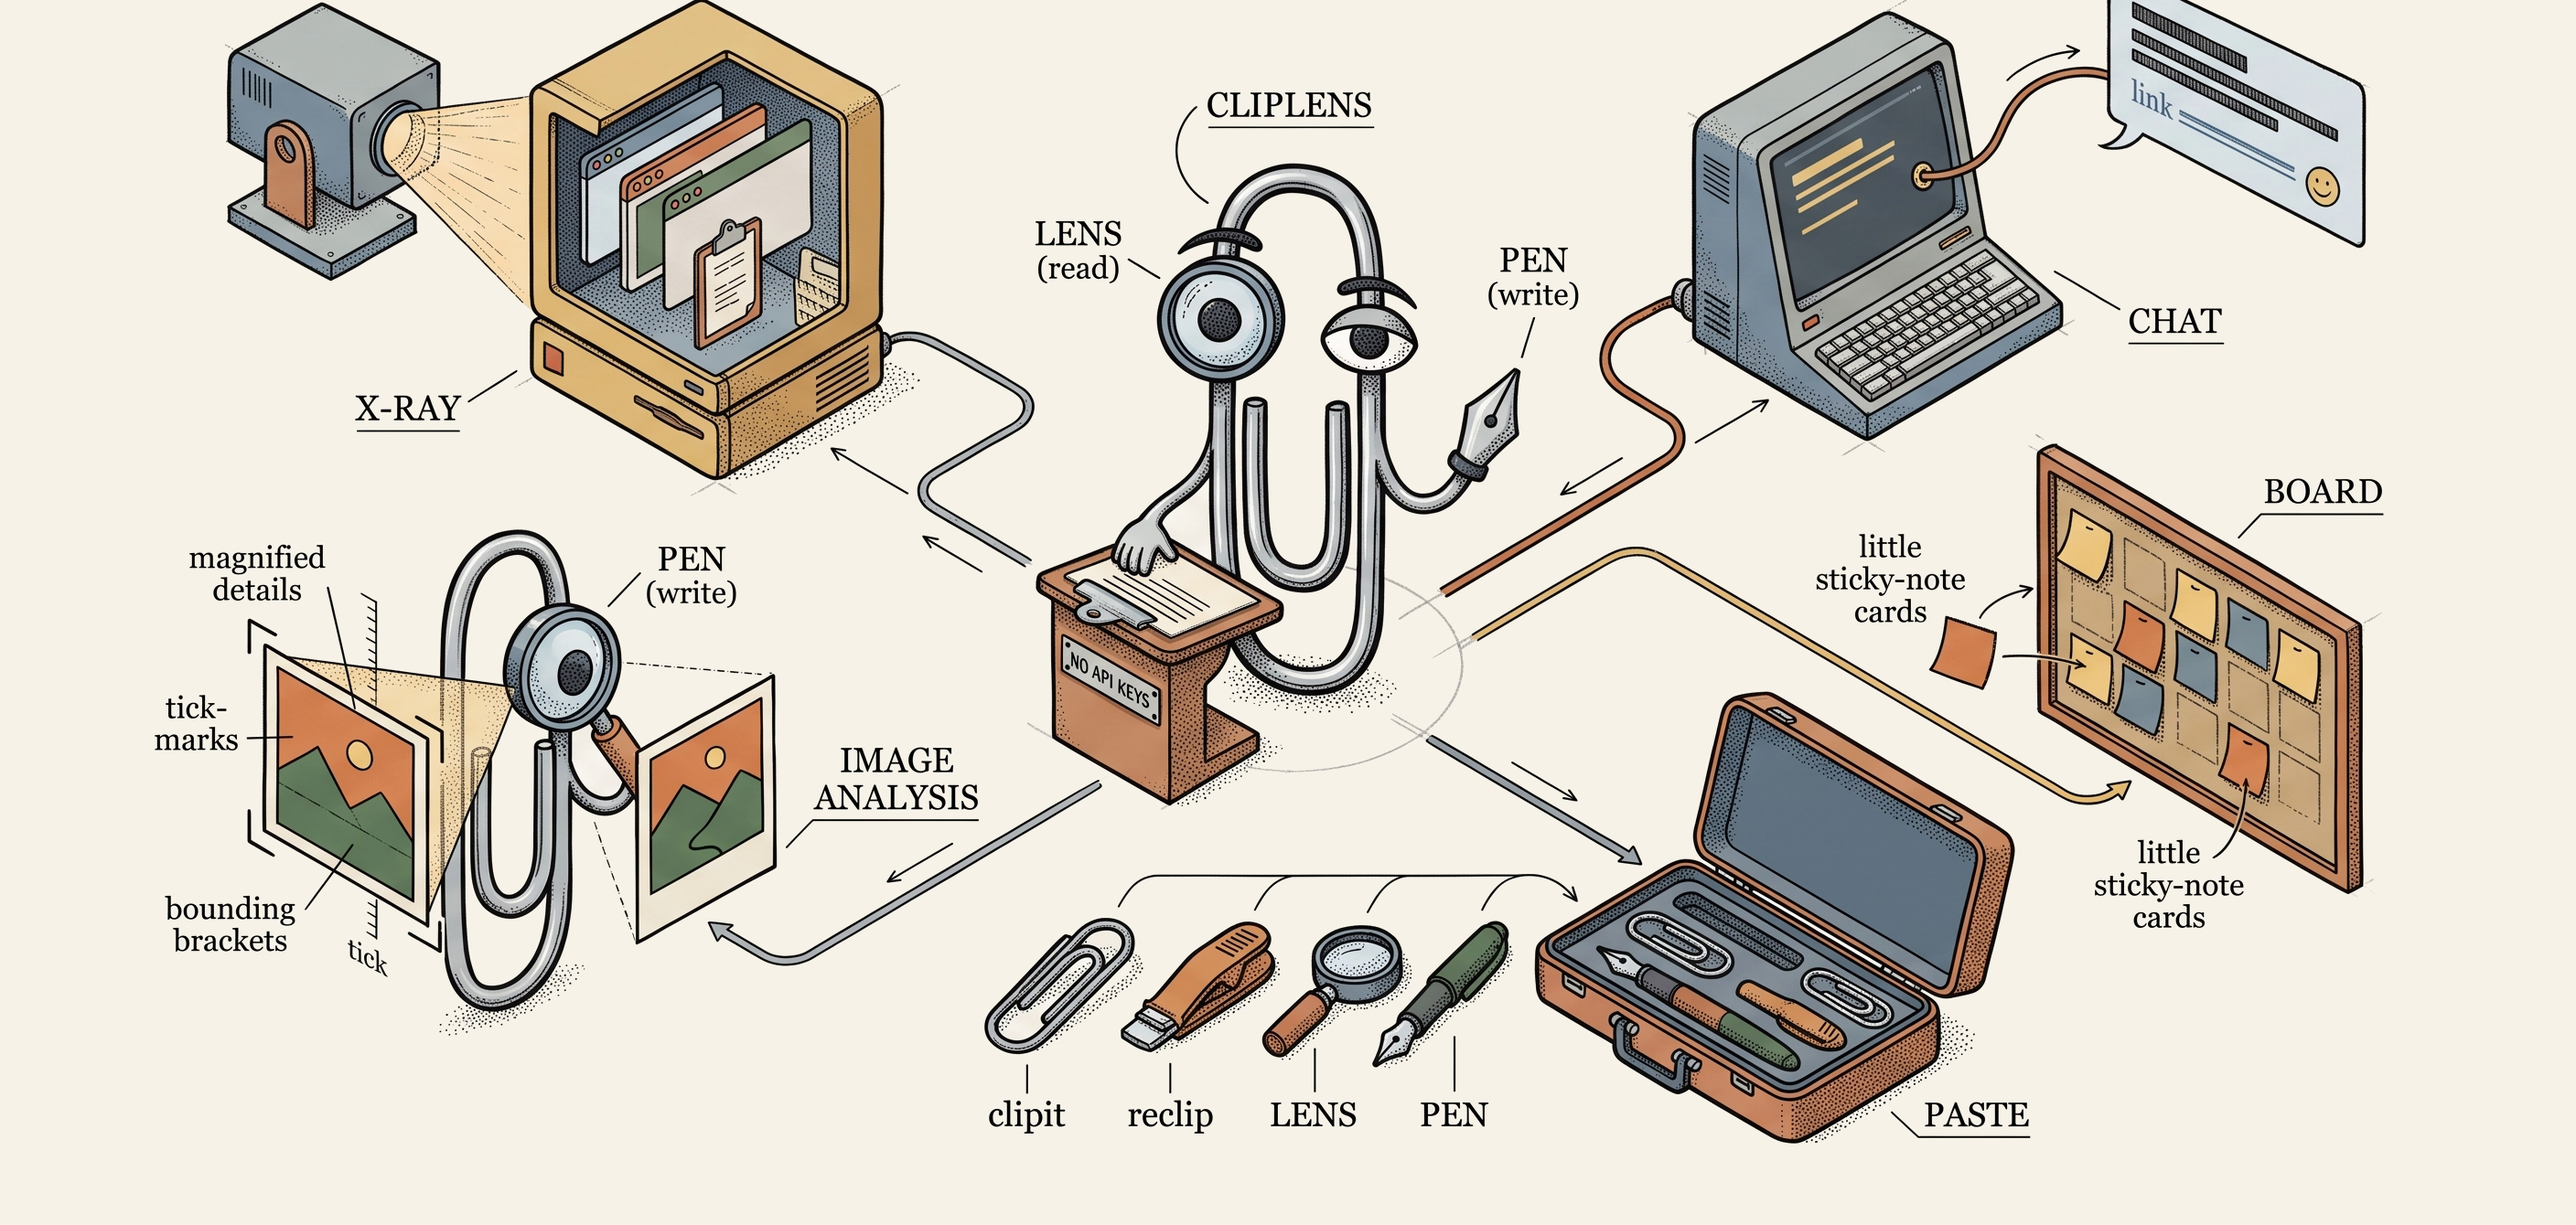
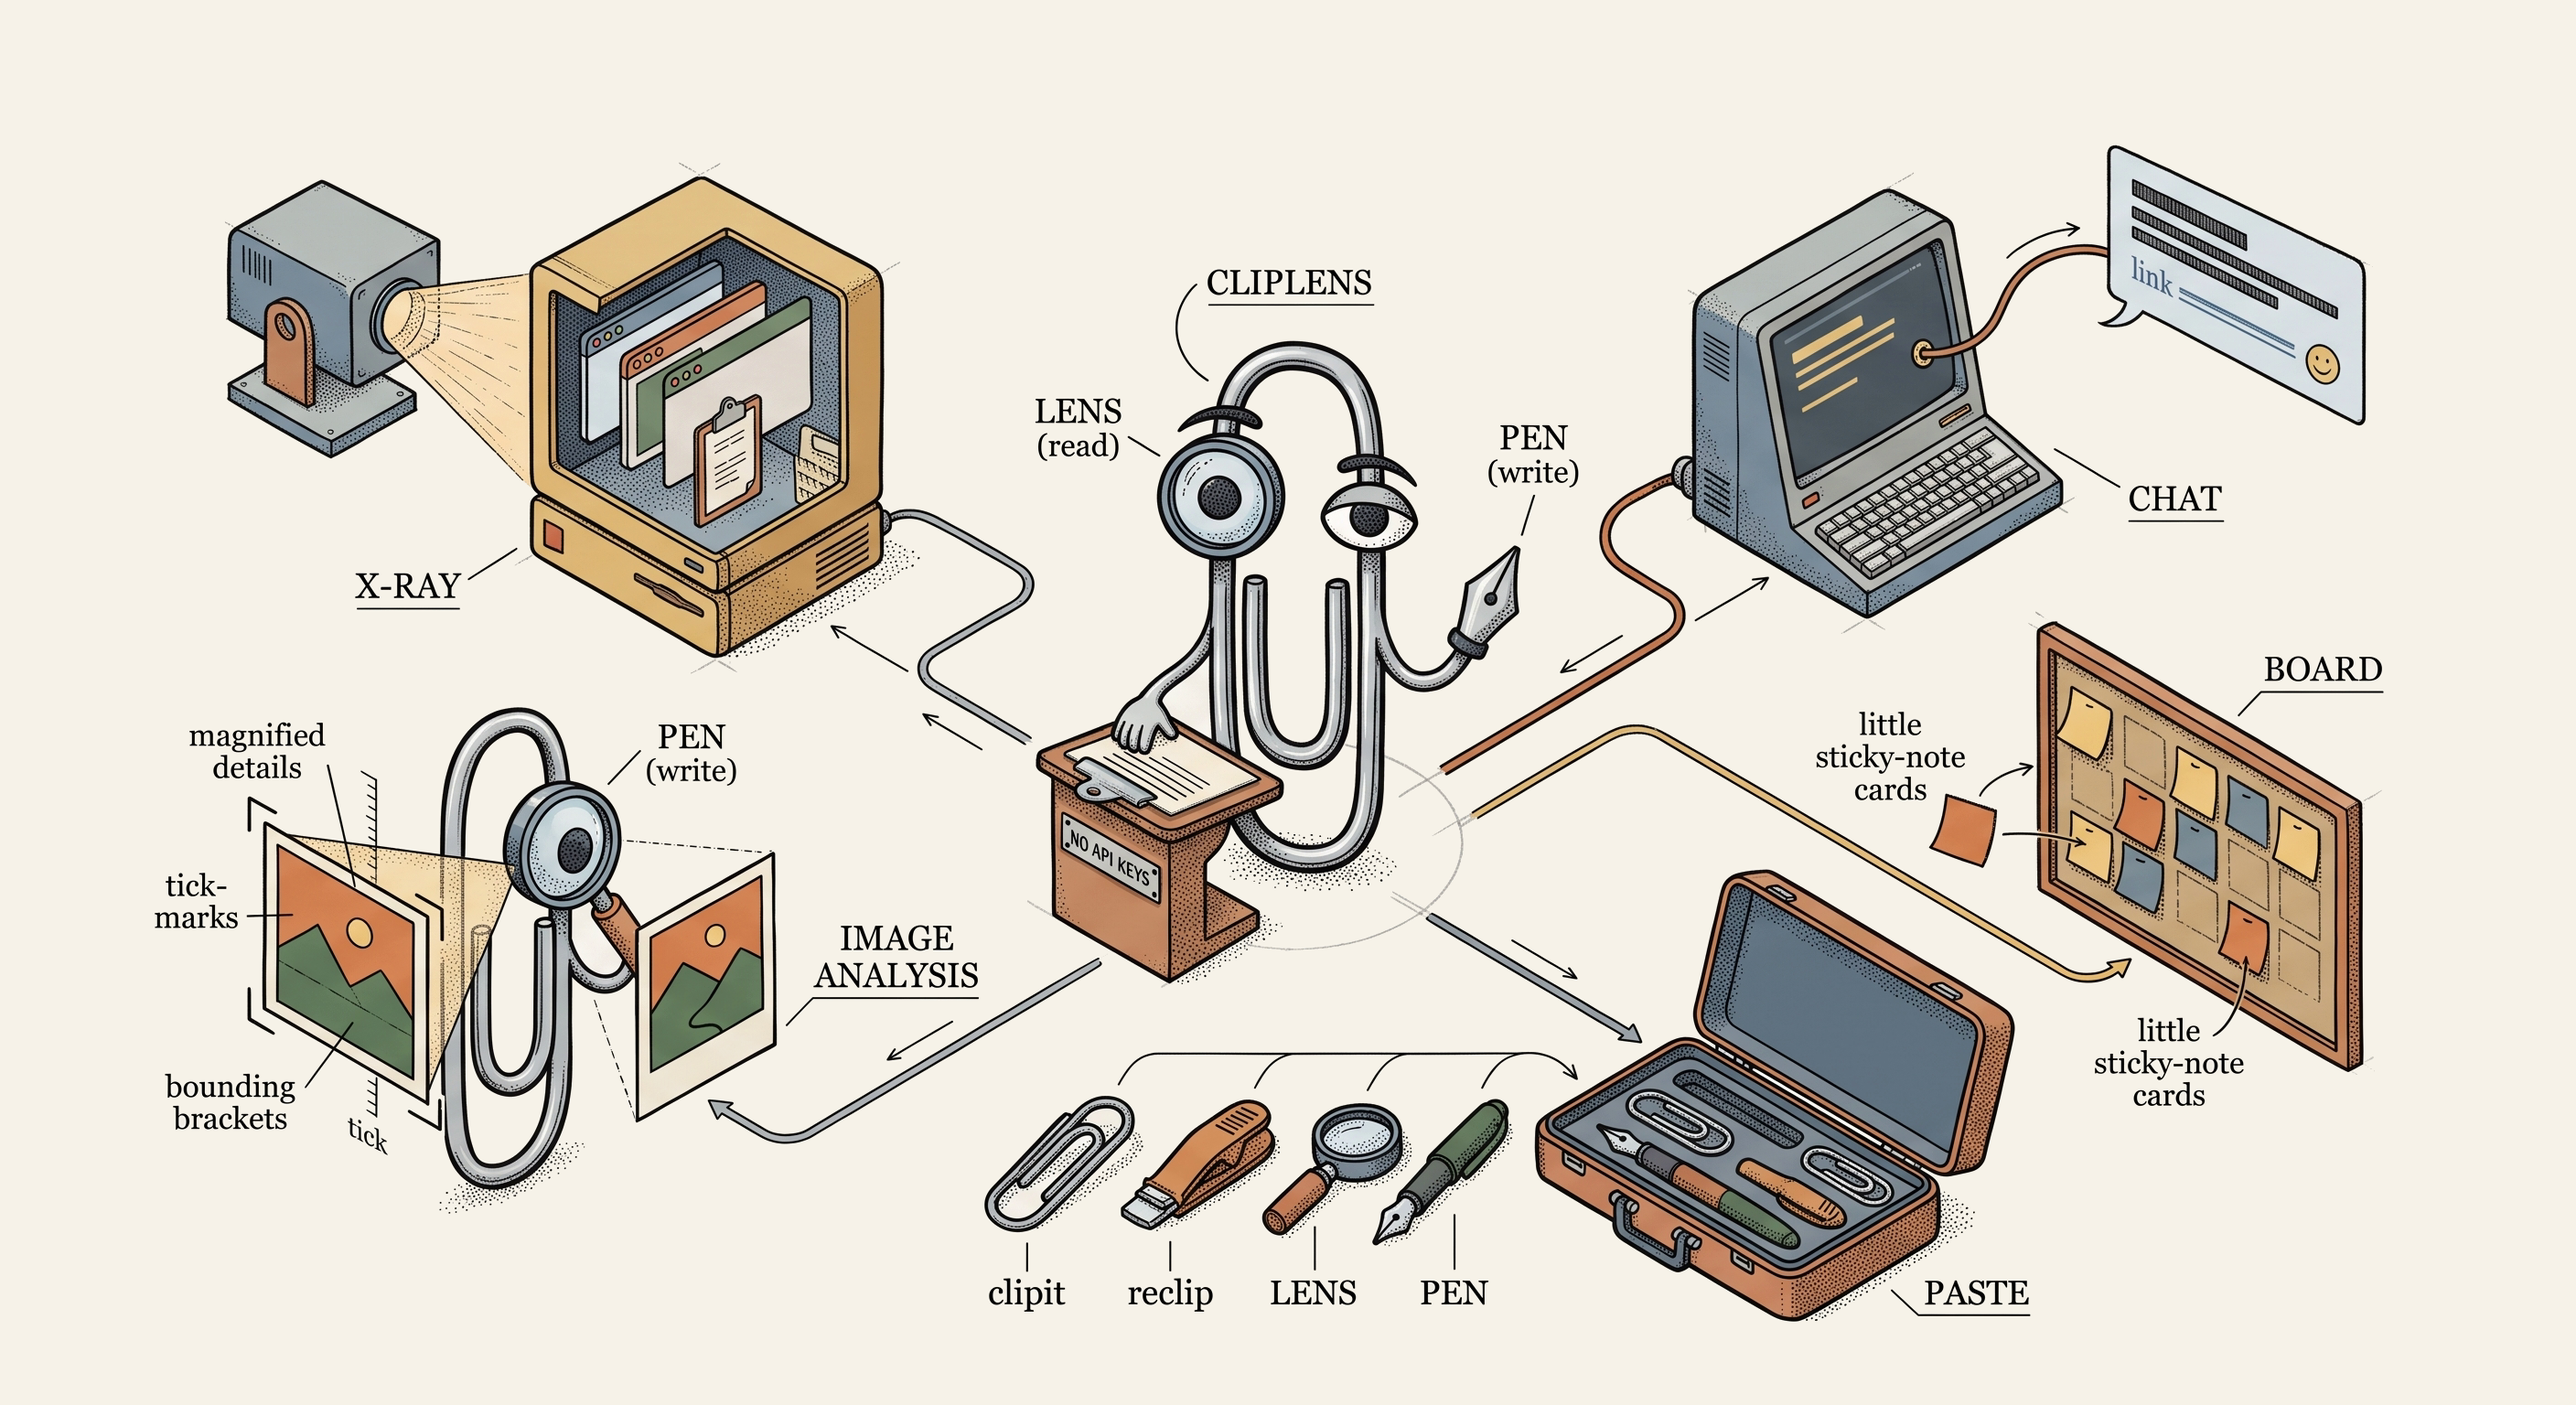
hero: full uncropped image (baked title painted out, off-white) + README title/tagline moved ABOVE the image; new tagline 'The universal, AI-independent skill for everything clipboard'

diff --git a/README.md b/README.md
@@ -1,11 +1,11 @@
+<h1 align="center">ClipLens</h1>
+
+<p align="center"><b>The universal, AI-independent skill for everything clipboard.</b><br/>
+<sub>read · write · analyze — any app, any agent, any provider · no API keys</sub></p>
+
 <p align="center">
   <img src="assets/hero.png" alt="ClipLens" width="100%">
 </p>
-
-<h1 align="center">ClipLens</h1>
-
-<p align="center"><b>The complete, universal clipboard skill for any AI agent.</b><br/>
-<sub>any provider · no API keys · lenses read, pens write</sub></p>
 
 Drop ClipLens into any agent — Claude Code, Kiro, Copilot, Gemini, Cursor, your own — and it can read and
 write the system clipboard in the *native formats real apps use*: generate a Slack message with real
